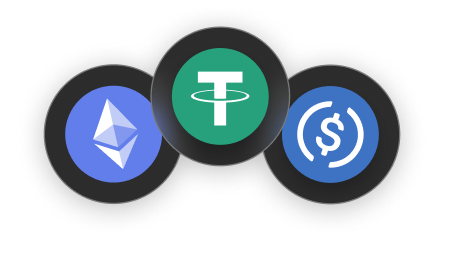
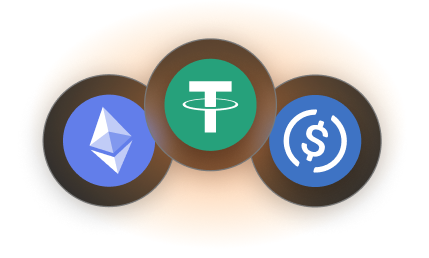
feat: add outgoing twitter link on cta^

diff --git a/index.html b/index.html
@@ -8,18 +8,20 @@
     <link rel="manifest" href="/site.webmanifest">
     <meta name="viewport" content="width=device-width, initial-scale=1.0" />
     <title>Wega. Win together, Own together</title>
-    <!-- <script>
-      // It's best to inline this in `head` to avoid FOUC (flash of unstyled content) when changing pages or themes
-      if (
-        localStorage.getItem('color-theme') === 'dark' ||
-        (!('color-theme' in localStorage) &&
-          window.matchMedia('(prefers-color-scheme: dark)').matches)
-      ) {
-        document.documentElement.classList.add('dark');
-      } else {
-        document.documentElement.classList.remove('dark');
-      }
-    </script> -->
+    <script>
+      // // It's best to inline this in `head` to avoid FOUC (flash of unstyled content) when changing pages or themes
+      // if (
+      //   localStorage.getItem('color-theme') === 'dark' ||
+      //   (!('color-theme' in localStorage) &&
+      //     window.matchMedia('(prefers-color-scheme: dark)').matches)
+      // ) {
+      //   document.documentElement.classList.add('dark');
+      // } else {
+      //   document.documentElement.classList.remove('dark');
+      // }
+      const htmlElement = document.documentElement;
+      if(htmlElement && !htmlElement.classList.contains('dark')) htmlElement.classList.add('dark');
+    </script>
   </head>
   <body>
     <div id="root" style="position: relative; z-index: -10; overflow: hidden"></div>

diff --git a/src/components/LandingPageHeroMobile/index.tsx b/src/components/LandingPageHeroMobile/index.tsx
@@ -2,9 +2,10 @@ import { useRef } from 'react';
 import { Dice } from "../Dice";
 import { useAutoRoll } from "../Dice/animations";
 import { LeftPlayerCardMobile, RightPlayerCardMobile} from "../LandingHeroPlayerCard";
+import { Link } from 'react-router-dom';
 import Button from "../Button";
-
-import { VersusIcon } from '../../assets/icons'; 
+import {TwitterIcon, VersusIcon} from '../../assets/icons';
+import { BlackFillWrapperForSVG } from '../../containers/Navigation/types'
 import 'twin.macro';
 
 const LandingPageHeroMobile = () => {
@@ -19,10 +20,14 @@ const LandingPageHeroMobile = () => {
     <RightPlayerCardMobile />
    </div>
    <Dice tw="rounded-[15px] w-[115px] h-[115px] p-[14px] border-[2.5px] mt-[-0.75rem]" diceRef={diceRef} />
-   <Button 
-    buttonType="primary" tw="z-[-20] shadow-primary-button py-[9.92px] px-[19.83px] min-w-[162px] min-h-[35px] mt-[5rem]" >
-        Coming soon
+   <Link to="https://twitter.com/PlayWega" target="_blank" rel="noreferrer">
+    <Button buttonType="primary" tw="z-[-20] flex flex-row justify-center px-[24px] py-[12px] items-center mt-[5rem]" >
+        Follow on
+        <BlackFillWrapperForSVG tw="ms-[8px]">
+          <TwitterIcon width="16px" height="16px"/>
+        </BlackFillWrapperForSVG>
       </Button>
+   </Link>
   </div>
  )
 }

diff --git a/src/components/LandingPageOwnTheYardSection/index.tsx b/src/components/LandingPageOwnTheYardSection/index.tsx
@@ -7,7 +7,7 @@ import {
  SectionHeaderSubtitle
 } from "../../common/Section/types"
 import { NormalText, LargeText, MediumText } from "../../common/typography/types"
-import OwnTheYardGraphic from "../../assets/images/OwnTheYardGraphic";
+import OwnTheYardGraphic from "../../assets/images/ownTheYard.png";
 import HoveringOrbs from "../../common/HoveringOrbs"
 import "twin.macro"
 
@@ -33,13 +33,13 @@ const LandingPageOwnTheYardSection = () => {
     </SectionHeaderContainer>
    }
   >
-   <div tw="self-center mb-[1rem] md:mb-[30px] ">
-    <OwnTheYardGraphic />
+   <div tw="self-center mb-[1rem] md:mb-[30px] max-w-[408px]">
+    <img src={OwnTheYardGraphic}  alt="own-the-yard-illustration" tw="w-full" />
    </div>
    {/* gradient banner */}
    <HoveringOrbs
     isHovering={isHoveringOnGradientBackground}
-    tw="relative mt-[1rem] w-[75%] self-center rounded-[25px]"
+    tw="relative mt-[3rem] w-[75%] self-center rounded-[25px]"
     onMouseEnter={() => handleGradientBackgroundHover("enter")}
     onMouseLeave={() => handleGradientBackgroundHover("leave")}
    >

diff --git a/src/containers/Navigation/index.tsx b/src/containers/Navigation/index.tsx
@@ -2,14 +2,17 @@
 
 import { Link } from 'react-router-dom';
 import { LogoDarkWo } from '../../assets/images';
+import { TwitterIcon } from '../../assets/icons';
 import { 
   BrandContainer, 
   Brand, 
   NavigationLinksContainer,
-  NavigationBar
+  NavigationBar,
+  BlackFillWrapperForSVG
 } from './types';
 import { useAnimateNav } from '../../hooks';
 import Button from '../../components/Button';
+
 import 'twin.macro'
 
 const Navigation = () => {
@@ -26,8 +29,11 @@ const Navigation = () => {
           </BrandContainer>
         </NavigationLinksContainer>
         <div>
-          <Button buttonType="primary" tw="flex justify-center items-center w-[max-content]">
-            Coming soon
+          <Button buttonType="primary" tw="font-secondary font-bold flex justify-center items-center w-[max-content]">
+            Follow on
+            <BlackFillWrapperForSVG tw="ms-[8px]">
+              <TwitterIcon width="16px" height="16px"/>
+            </BlackFillWrapperForSVG>
           </Button>
         </div>
       </div>

diff --git a/src/components/LandingPageOwnTheYardSectionMobile/index.tsx b/src/components/LandingPageOwnTheYardSectionMobile/index.tsx
@@ -11,7 +11,7 @@ import {
   LargeText,
   MediumText
 } from '../../common/typography/types'
-import OwnTheYardGraphic from '../../assets/images/OwnTheYardGraphicMobile';
+import OwnTheYardGraphic from '../../assets/images/ownTheYardMobile.png';
 import 'twin.macro';
 
   
@@ -32,7 +32,7 @@ const LandingPageOwnTheYardSectionMobile = () => {
      </SectionHeaderContainer>
    }>
    <div tw='self-center w-full' >
-    <OwnTheYardGraphic width="100%" />
+    <img src={OwnTheYardGraphic}  alt="own-the-yard-illustration" tw="mx-auto"/>
    </div>
    {/* gradient banner */}
    <div tw="relative rounded-[25px] h-[217px] border-[2px] border-blanc z-[inherit]">

diff --git a/src/containers/App/index.tsx b/src/containers/App/index.tsx
@@ -1,4 +1,3 @@
-import { useEffect } from 'react';
 import { HelmetProvider } from 'react-helmet-async';
 import LanguageProvider from '../LanguageProvider';
 import { localeSelector } from '../LanguageProvider/intlSlice';
@@ -10,11 +9,6 @@ import 'twin.macro';
 
 function App() {
   const locale = useAppSelector(state => localeSelector(state));
-  
-  useEffect(()=>{
-    const htmlElement = document.documentElement;
-    if(htmlElement && !htmlElement.classList.contains('dark')) htmlElement.classList.add('dark');
-  })
   return (
     <LanguageProvider locale={locale}>
       <HelmetProvider>

diff --git a/src/containers/LandingPage/index.tsx b/src/containers/LandingPage/index.tsx
@@ -7,6 +7,7 @@ import LandingPageOwnTheYardSection from '../../components/LandingPageOwnTheYard
 import LandingPageOwnTheYardSectionMobile from '../../components/LandingPageOwnTheYardSectionMobile';
 import MainContainer from '../../components/MainContainer';
 import { useMediaQuery } from '../../hooks';
+
 const LandingPage = () => {
     const { isMobile } = useMediaQuery();
     return (

diff --git a/src/containers/Navigation/types.ts b/src/containers/Navigation/types.ts
@@ -1,5 +1,10 @@
 import tw, { styled } from 'twin.macro';
 
+export const BlackFillWrapperForSVG = styled.span`
+  svg path {
+    ${tw`fill-pretu`}
+  }
+`
 
 export const BrandContainer = styled.div`
  display: flex;
